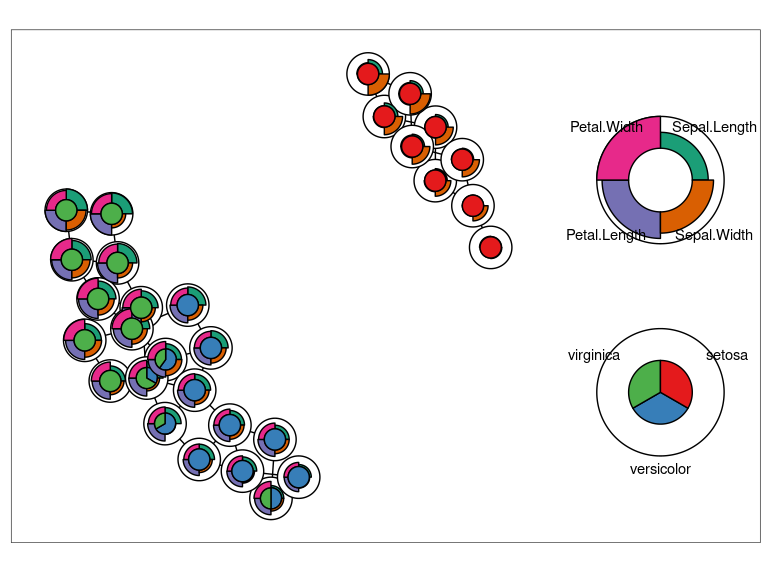
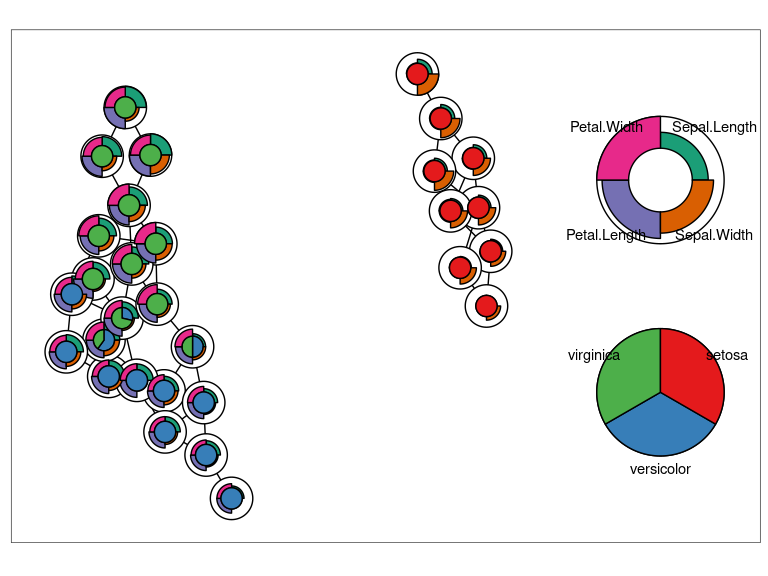
also show plots with different colours

Changed region(s): [[0.0312, 0.125, 0.4062, 0.9062], [0.4375, 0.0938, 0.6875, 0.5625], [0.75, 0.5625, 0.9688, 0.8125]]

diff --git a/README.md b/README.md
@@ -12,7 +12,8 @@ An implementation of the Growing Neural Gas algorithm in Rcpp.
 
 ## Example
 
-You can run gng as follows:
+Here’s an example of running a GNG on the iris dataset (which, arguably,
+doesn’t make much sense).
 
     library(gng)
     data(iris)
@@ -20,8 +21,16 @@ You can run gng as follows:
     x <- as.matrix(iris[,1:4])
     gng_fit <- gng(x)
 
-And visualise it as follows:
+You can visualise the GNG nodes as follows.
 
-    plot_gng(gng_fit, iris[,5], max_size = 0.05, max_size_legend = .15)
+    plot_gng(gng_fit, plot_labels = iris[,5])
 
 ![](man/figures/README_plot-1.png)
+
+    plot_gng(gng_fit, plot_labels = iris[,5], plot_expression = NULL)
+
+![](man/figures/README_plot-2.png)
+
+    plot_gng(gng_fit)
+
+![](man/figures/README_plot-3.png)
